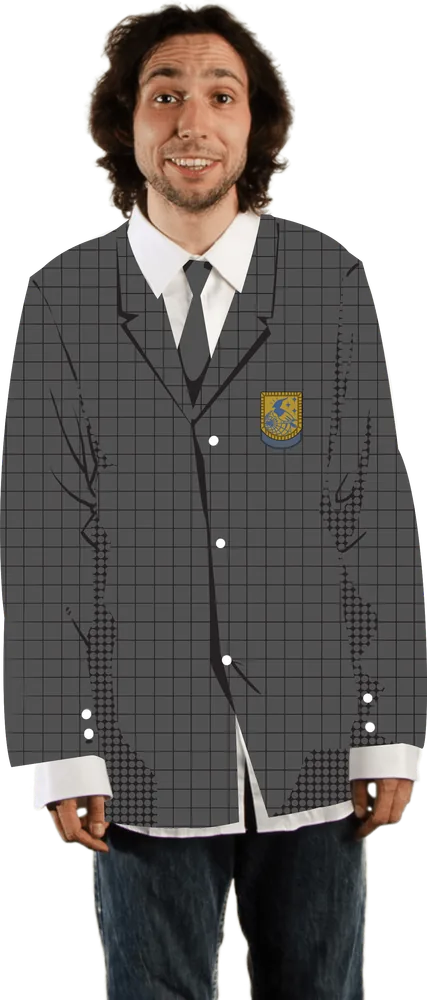
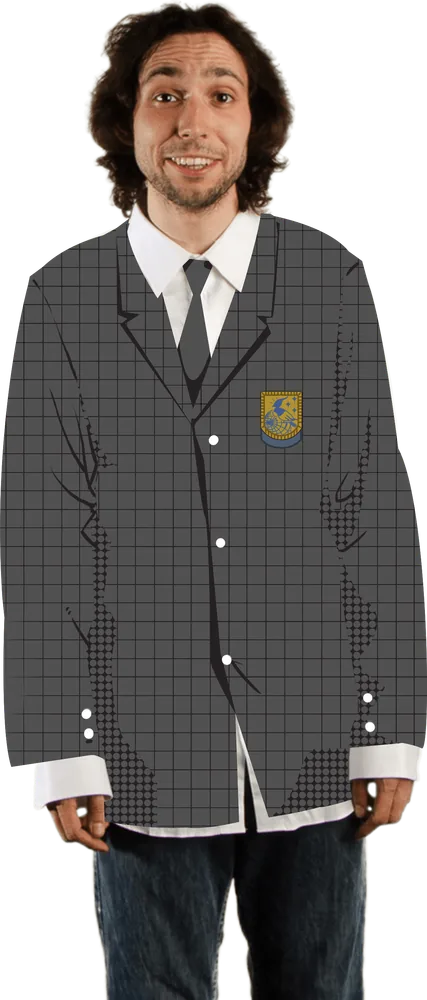
Dark text in the answer fields, notebook toast clear of the top bar, larger figures, stray white hairline removed from the cut-out portraits

diff --git a/web/style.css b/web/style.css
@@ -152,6 +152,7 @@ button { font: inherit; color: inherit; }
 .puzzle p { margin: 0 0 1rem; }
 .puzzle label { display: block; font-weight: 650; margin: 0.75rem 0 0.25rem; }
 .puzzle input {
+  color: var(--ink);
   width: 100%; font: inherit; font-size: 1.15rem; padding: 0.6rem 0.75rem; border: 0.15rem solid var(--ink); background: var(--paper);
 }
 .puzzle .actions { display: flex; gap: 0.75rem; flex-wrap: wrap; margin-top: 1.25rem; }
@@ -165,7 +166,7 @@ button { font: inherit; color: inherit; }
 .clue h2 { margin: 0; font-weight: 900; font-stretch: 120%; font-size: 1.6rem; line-height: 1.1; }
 .clue > p { margin: 0; max-width: 62ch; }
 .clue label { display: block; font-weight: 700; margin-bottom: 0.35rem; }
-.clue input { width: 100%; font: inherit; font-size: 1.15rem; padding: 0.6rem 0.75rem; border: 0.15rem solid var(--ink); background: var(--paper); }
+.clue input { color: var(--ink); width: 100%; font: inherit; font-size: 1.15rem; padding: 0.6rem 0.75rem; border: 0.15rem solid var(--ink); background: var(--paper); }
 .clue .actions { display: flex; gap: 0.75rem; flex-wrap: wrap; margin-top: 1rem; }
 .say.full { cursor: default; }
 .gallery { display: flex; gap: 0.75rem; flex-wrap: wrap; }
@@ -286,7 +287,7 @@ button { font: inherit; color: inherit; }
 .stage { position: relative; }
 .stage:has(> .portrait-wall) {
   /* svh: stays put when the phone's address bar slides away on scroll */
-  --fig-h: clamp(11rem, 36vh, 26rem); --fig-h: clamp(11rem, 36svh, 26rem); --box-slot: clamp(13rem, 42svh, 17rem);
+  --fig-h: clamp(12rem, 40vh, 28rem); --fig-h: clamp(12rem, 40svh, 28rem); --box-slot: clamp(13rem, 40svh, 17rem);
   grid-template-rows: calc(var(--fig-h) - 2.6rem) minmax(var(--box-slot), auto); align-content: end; gap: 0;
 }
 .stage > .portrait-wall { position: relative; overflow: visible; pointer-events: none; min-height: 0; display: block; }
@@ -367,7 +368,7 @@ button { font: inherit; color: inherit; }
 .spot.found { border: 0.25rem solid var(--c-sirio); border-radius: 50%; background: rgba(25, 163, 154, 0.15); }
 
 /* ---------- Notebook news: a toast and a dot ---------- */
-.toasts { position: fixed; z-index: 2000; left: 0; right: 0; top: calc(env(safe-area-inset-top, 0px) + 3.75rem); display: grid; gap: 0.5rem; justify-items: center; padding: 0 0.75rem; pointer-events: none; }
+.toasts { position: fixed; z-index: 2000; left: 0; right: 0; top: calc(env(safe-area-inset-top, 0px) + 4.5rem); display: grid; gap: 0.5rem; justify-items: center; padding: 0 0.75rem; pointer-events: none; }
 .toast {
   pointer-events: auto; appearance: none; text-align: left; width: 100%; max-width: 30rem; font: inherit; cursor: pointer;
   background: var(--sticker); color: var(--ink); border: 0.15rem solid var(--ink); border-left: 0.6rem solid var(--cover);
@@ -433,3 +434,4 @@ button, .say, .card, .thumb, .big-image, .spot-stage { touch-action: manipulatio
 @media (pointer: coarse) {
   .leaflet-touch .leaflet-bar a { width: 2.75rem; height: 2.75rem; line-height: 2.75rem; font-size: 1.4rem; }
 }
+.puzzle input::placeholder, .clue input::placeholder { color: #6b737d; opacity: 1; }

diff --git a/tools/build-media.py b/tools/build-media.py
@@ -14,7 +14,7 @@ import pathlib
 import shutil
 import sys
 
-from PIL import Image
+from PIL import Image, ImageChops, ImageFilter
 
 ROOT = pathlib.Path(__file__).resolve().parent.parent
 OUT = ROOT / "web" / "assets" / "media"
@@ -29,6 +29,12 @@ def background(src, dst):
 def portrait(src, dst):
     im = Image.open(src).convert("RGBA")
     alpha = im.getchannel("A").point(lambda a: 255 if a > 24 else 0)   # ignore faint halo pixels
+    # Stray hairlines left in some cut-outs (Petronio's "inside" has a white one along the top and right edge): drop
+    # whatever is thinner than a few pixels and detached from the figure, so it neither shows nor stretches the crop.
+    k = max(3, (im.height // 250) | 1)
+    body = alpha.filter(ImageFilter.MinFilter(k)).filter(ImageFilter.MaxFilter(k + 4))
+    im.putalpha(ImageChops.multiply(im.getchannel("A"), body))
+    alpha = ImageChops.multiply(alpha, body)
     im = im.crop(alpha.getbbox())
     h = 1000
     im = im.resize((round(im.width * h / im.height), h), Image.LANCZOS)
